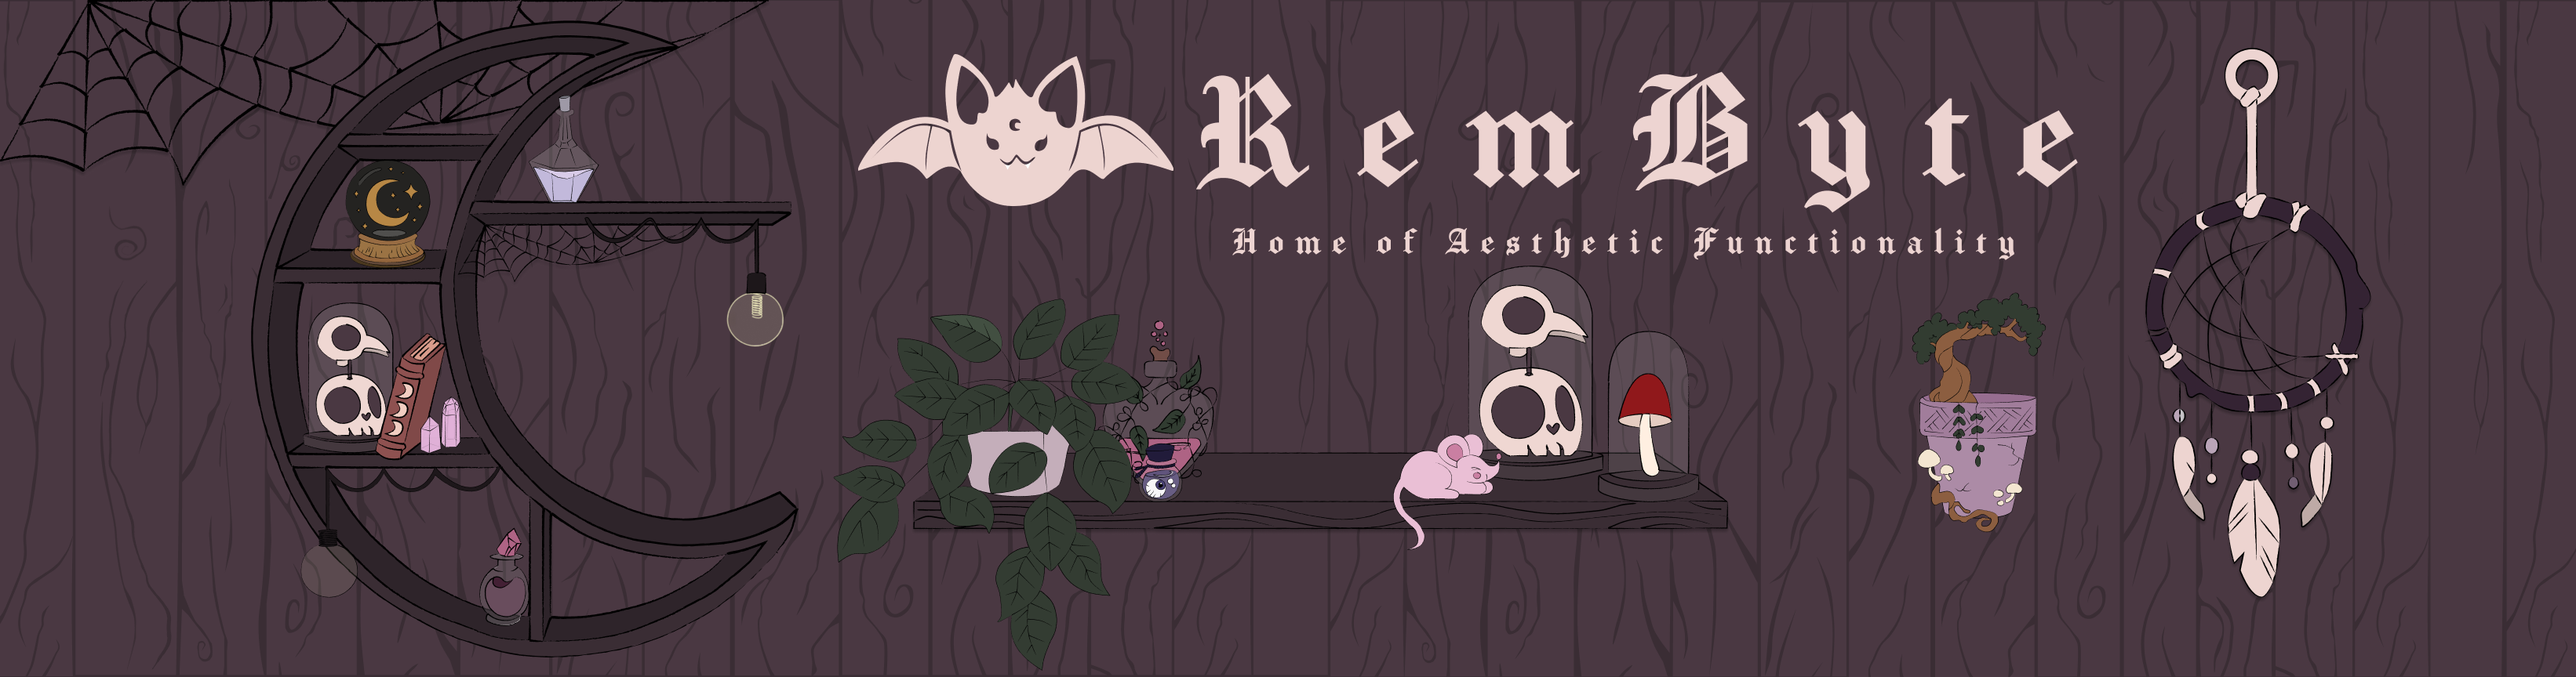
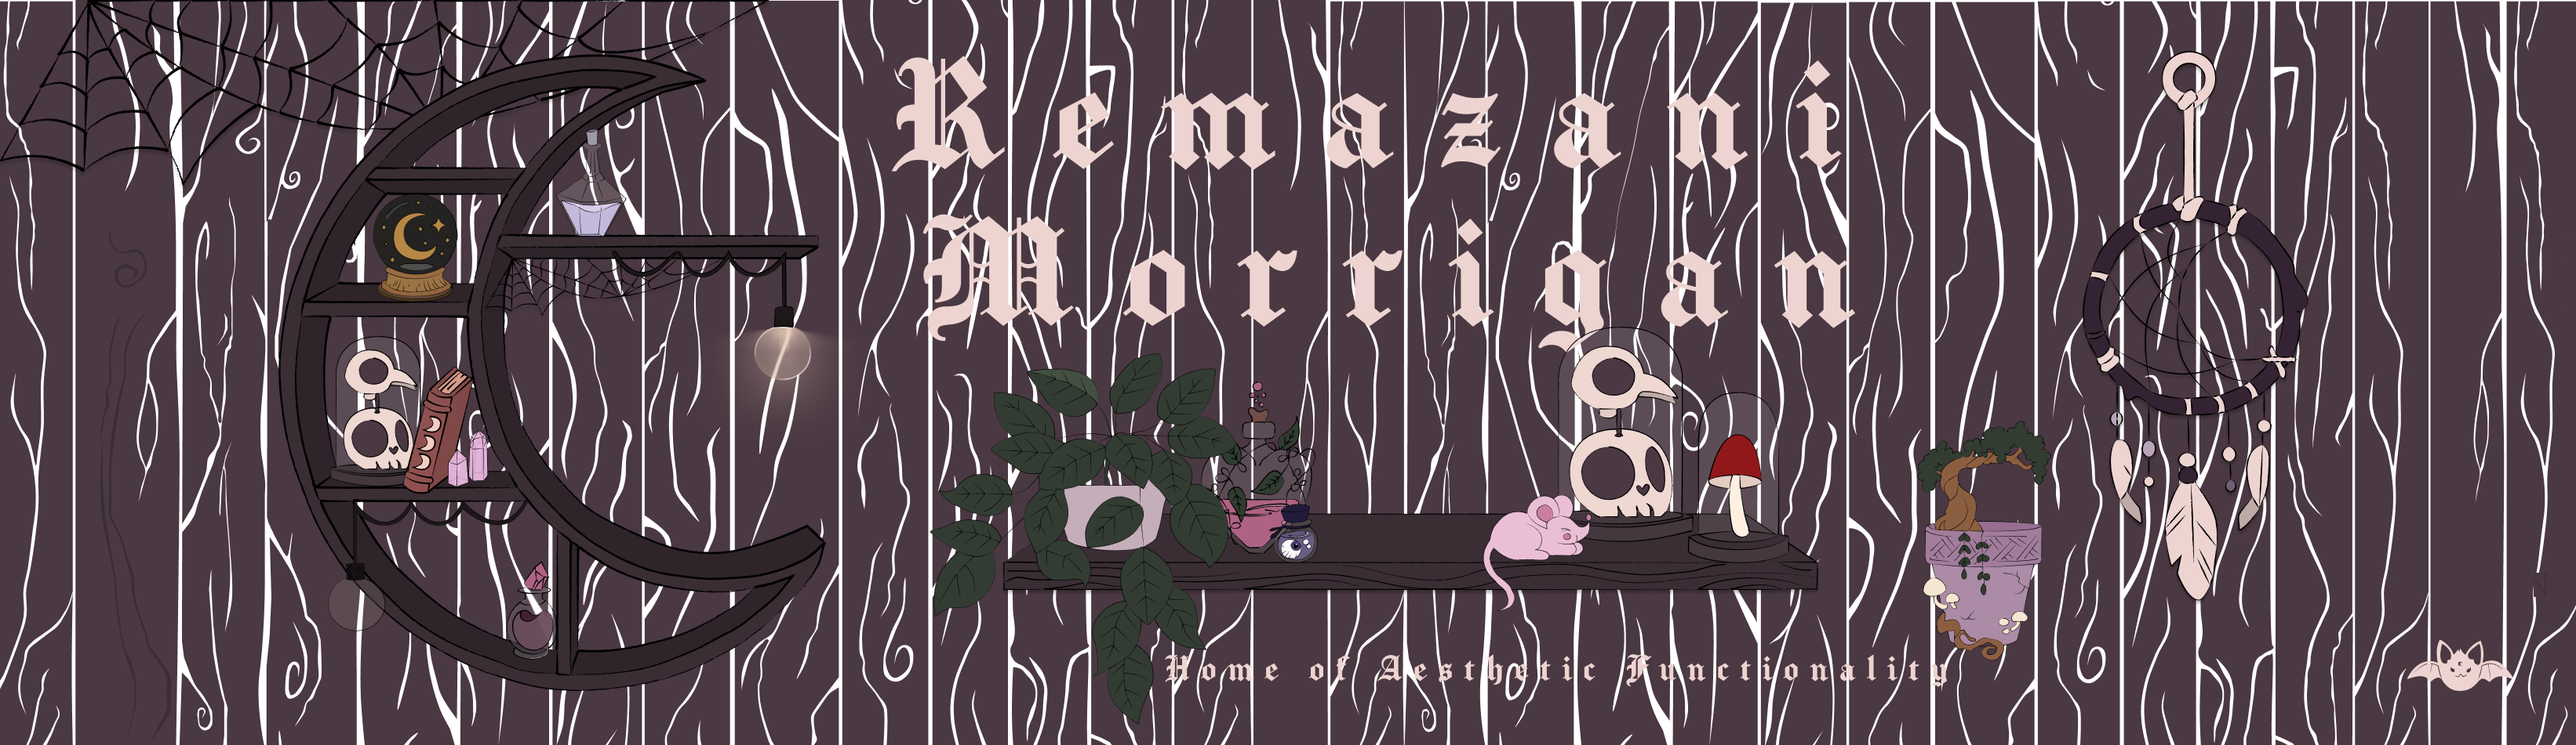
idi

Changed region(s): [[0.0, 0.0, 1.0, 1.0], [0.0, 0.7812, 0.0311, 1.0], [0.0, 0.5, 0.0311, 0.6562]]

diff --git a/README.md b/README.md
@@ -1,7 +1,7 @@
 
 
 <p align="center">
-  <img src="banner.gif" alt="Retro Rat Banner" width="100%" />
+  <img src="banner.png" alt="Remazani Morrigan Banner" width="100%" />
 </p>
 
 <p align="left">
